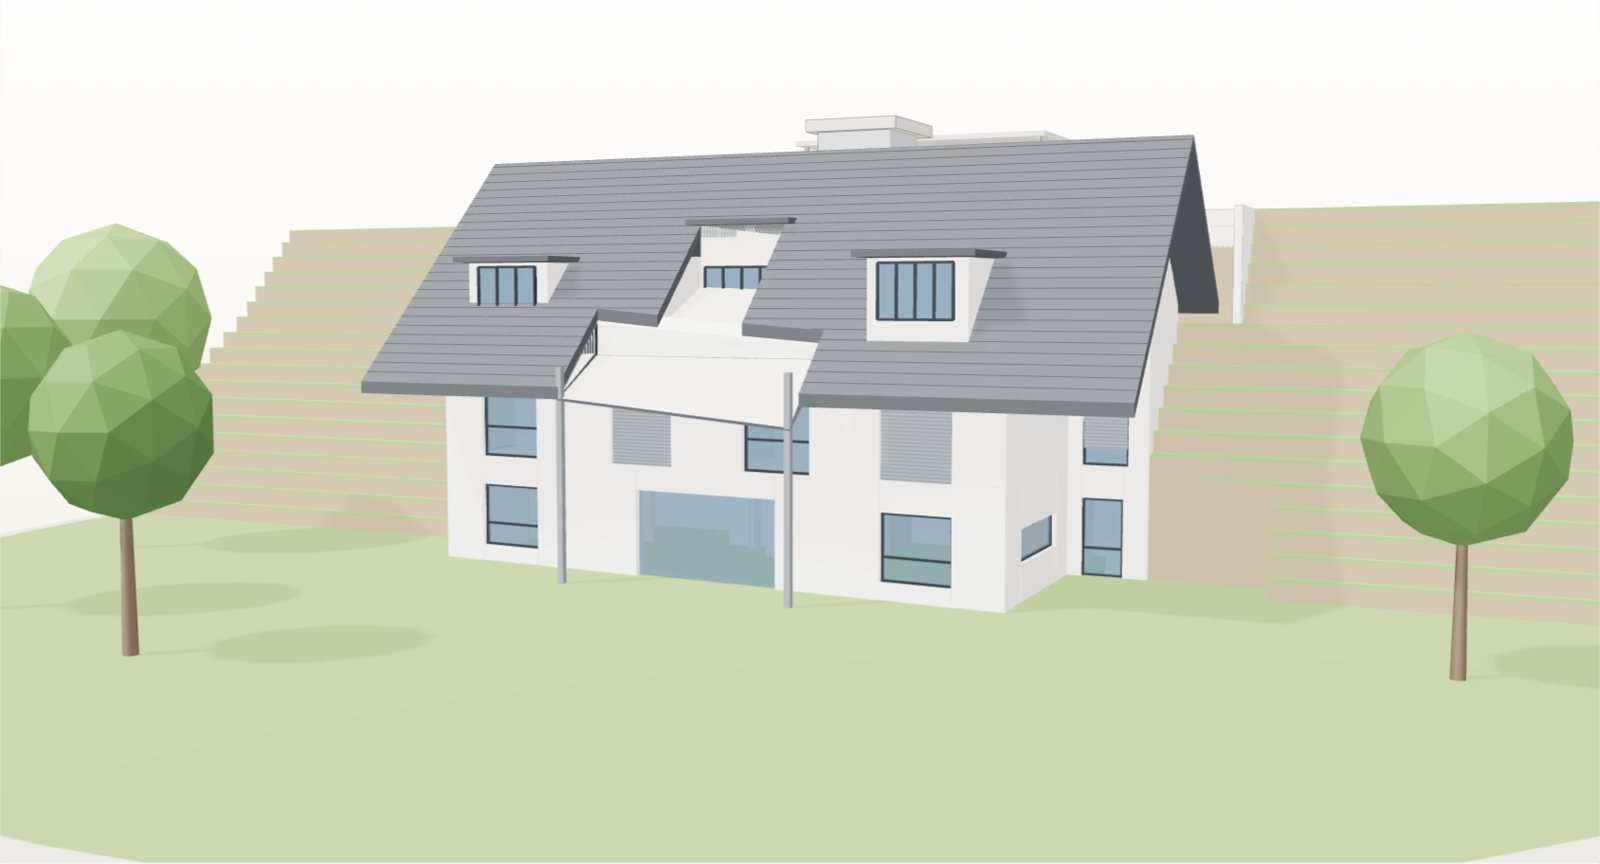
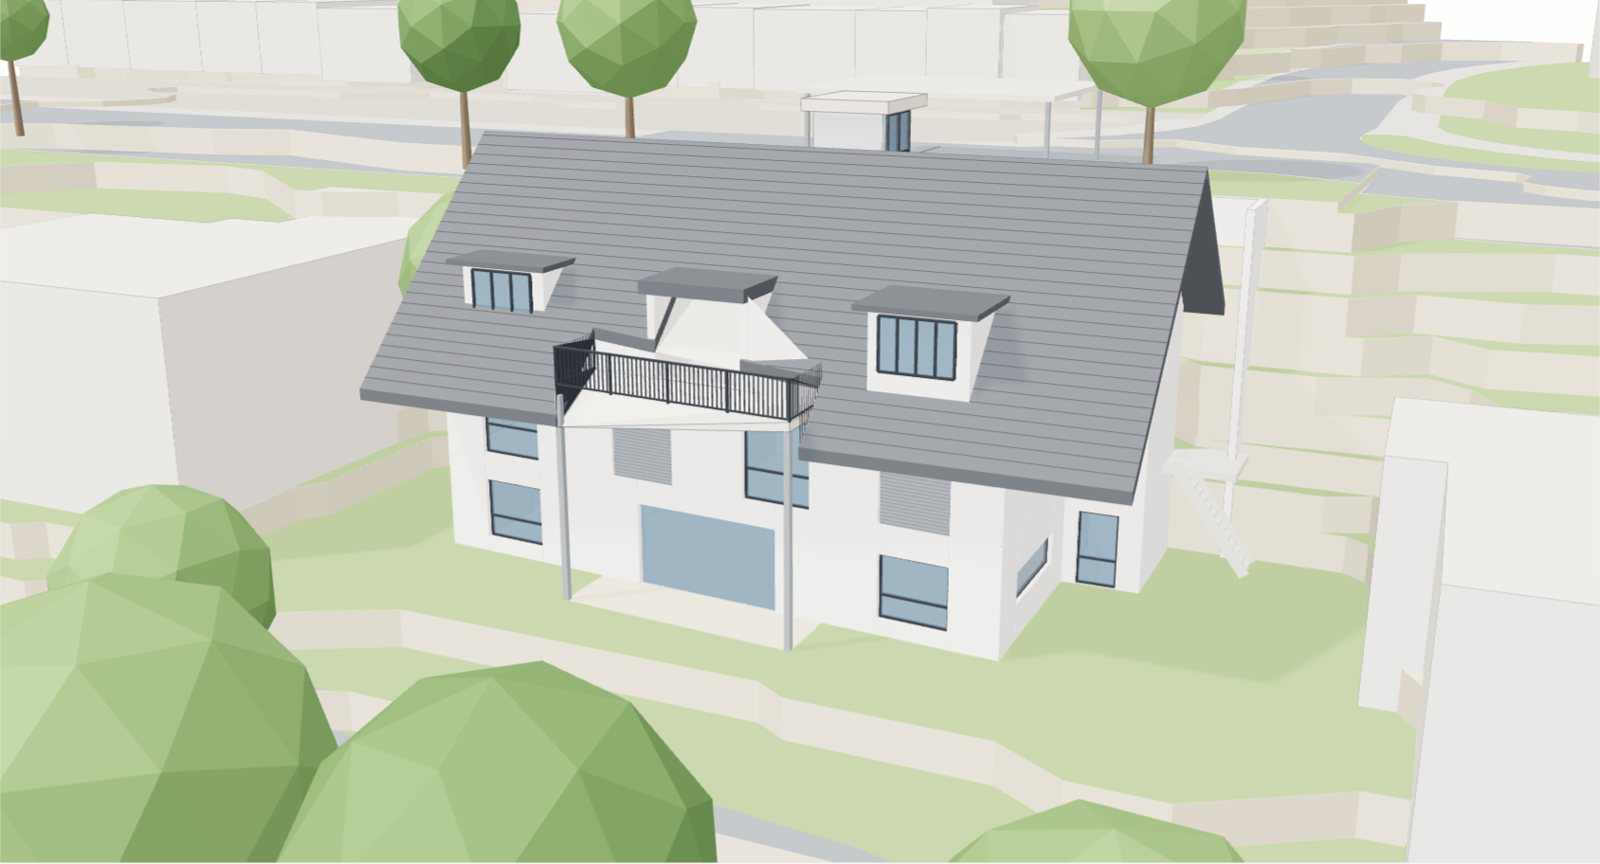
Bremgarten cover with the real site
Claude-Session: https://claude.ai/code/session_017iE6WV9ddRYZx5X7ewEkM9

diff --git a/src/components/ProjectData.js b/src/components/ProjectData.js
@@ -127,7 +127,7 @@ export const projectsData = [
     description: 'Neubau eines Wohnhauses in steiler Hanglage: Eingang über einen Liftturm direkt von der Strasse, Wohnen unter dem Satteldach mit Lukarnen und Balkon, Schlafräume und Gartengeschoss darunter.',
     fullDescription: 'Das Wohnhaus gräbt sich in den Hang: Von der Strasse aus erscheint nur das Dach, während sich das Haus zum Garten hin über drei Geschosse öffnet. Ein Liftturm verbindet Carport und Strasse mit allen Ebenen. Zuoberst liegt der Wohn- und Essbereich unter dem 45°-Satteldach, belichtet durch drei Lukarnen und einen Balkon; darunter die Schlafräume, zuunterst das Gartengeschoss mit grossen Festverglasungen. Hinter dem Haus sorgt ein durchgehender Lichtschacht für Tageslicht im erdberührten Teil. Die Ausführungsplanung läuft, der Bau ist 2026 gestartet.',
     coverImage: '/images/projekte/bremgarten-3d.jpg',
-    gallery: [{ type: 'image', url: '/images/projekte/bremgarten-3d.jpg', alt: '3D-Modell aus den Ausführungsplänen (Aussenansicht, Umgebung schematisch)' }],
+    gallery: [{ type: 'image', url: '/images/projekte/bremgarten-3d.jpg', alt: '3D-Modell aus den Ausführungsplänen, mit Umgebung (Aare, Gelände swissALTI3D)' }],
     features: ['Hanglage', 'Liftturm mit Zugang von der Strasse', 'Satteldach mit Lukarnen', 'Lichtschacht'],
     amenities: [
       { icon: Home, label: 'Einfamilienhaus' },
